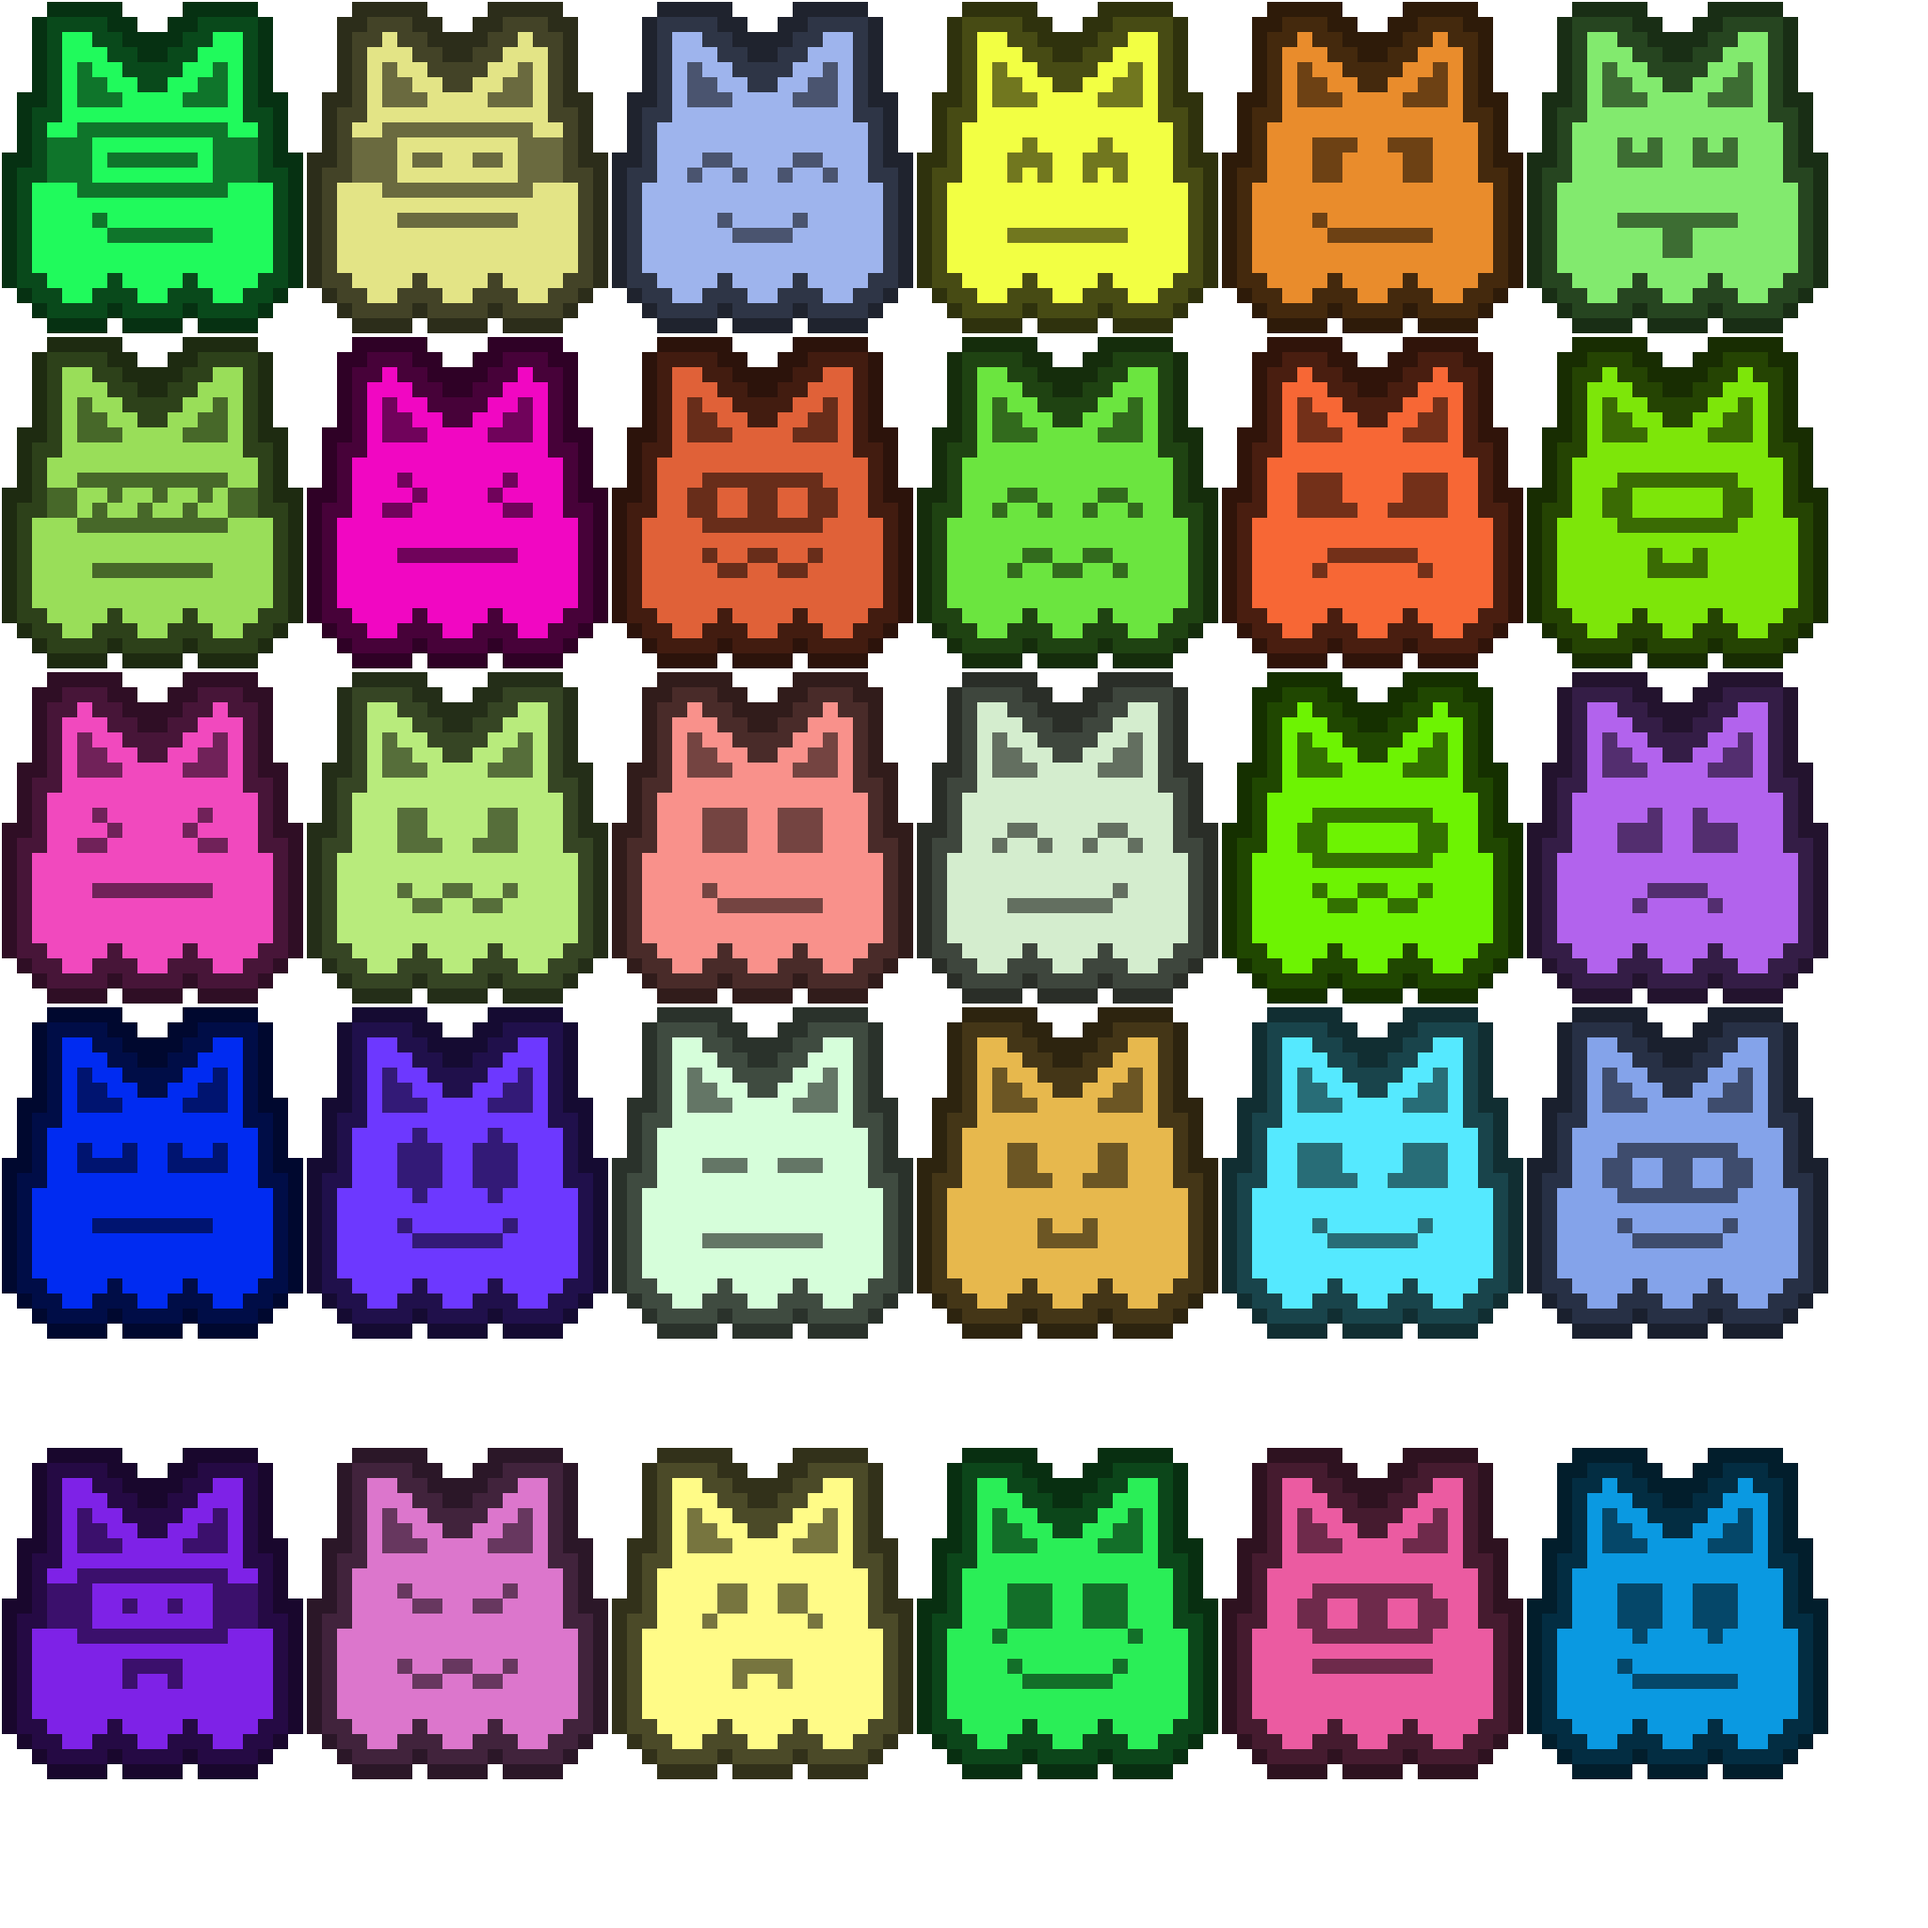
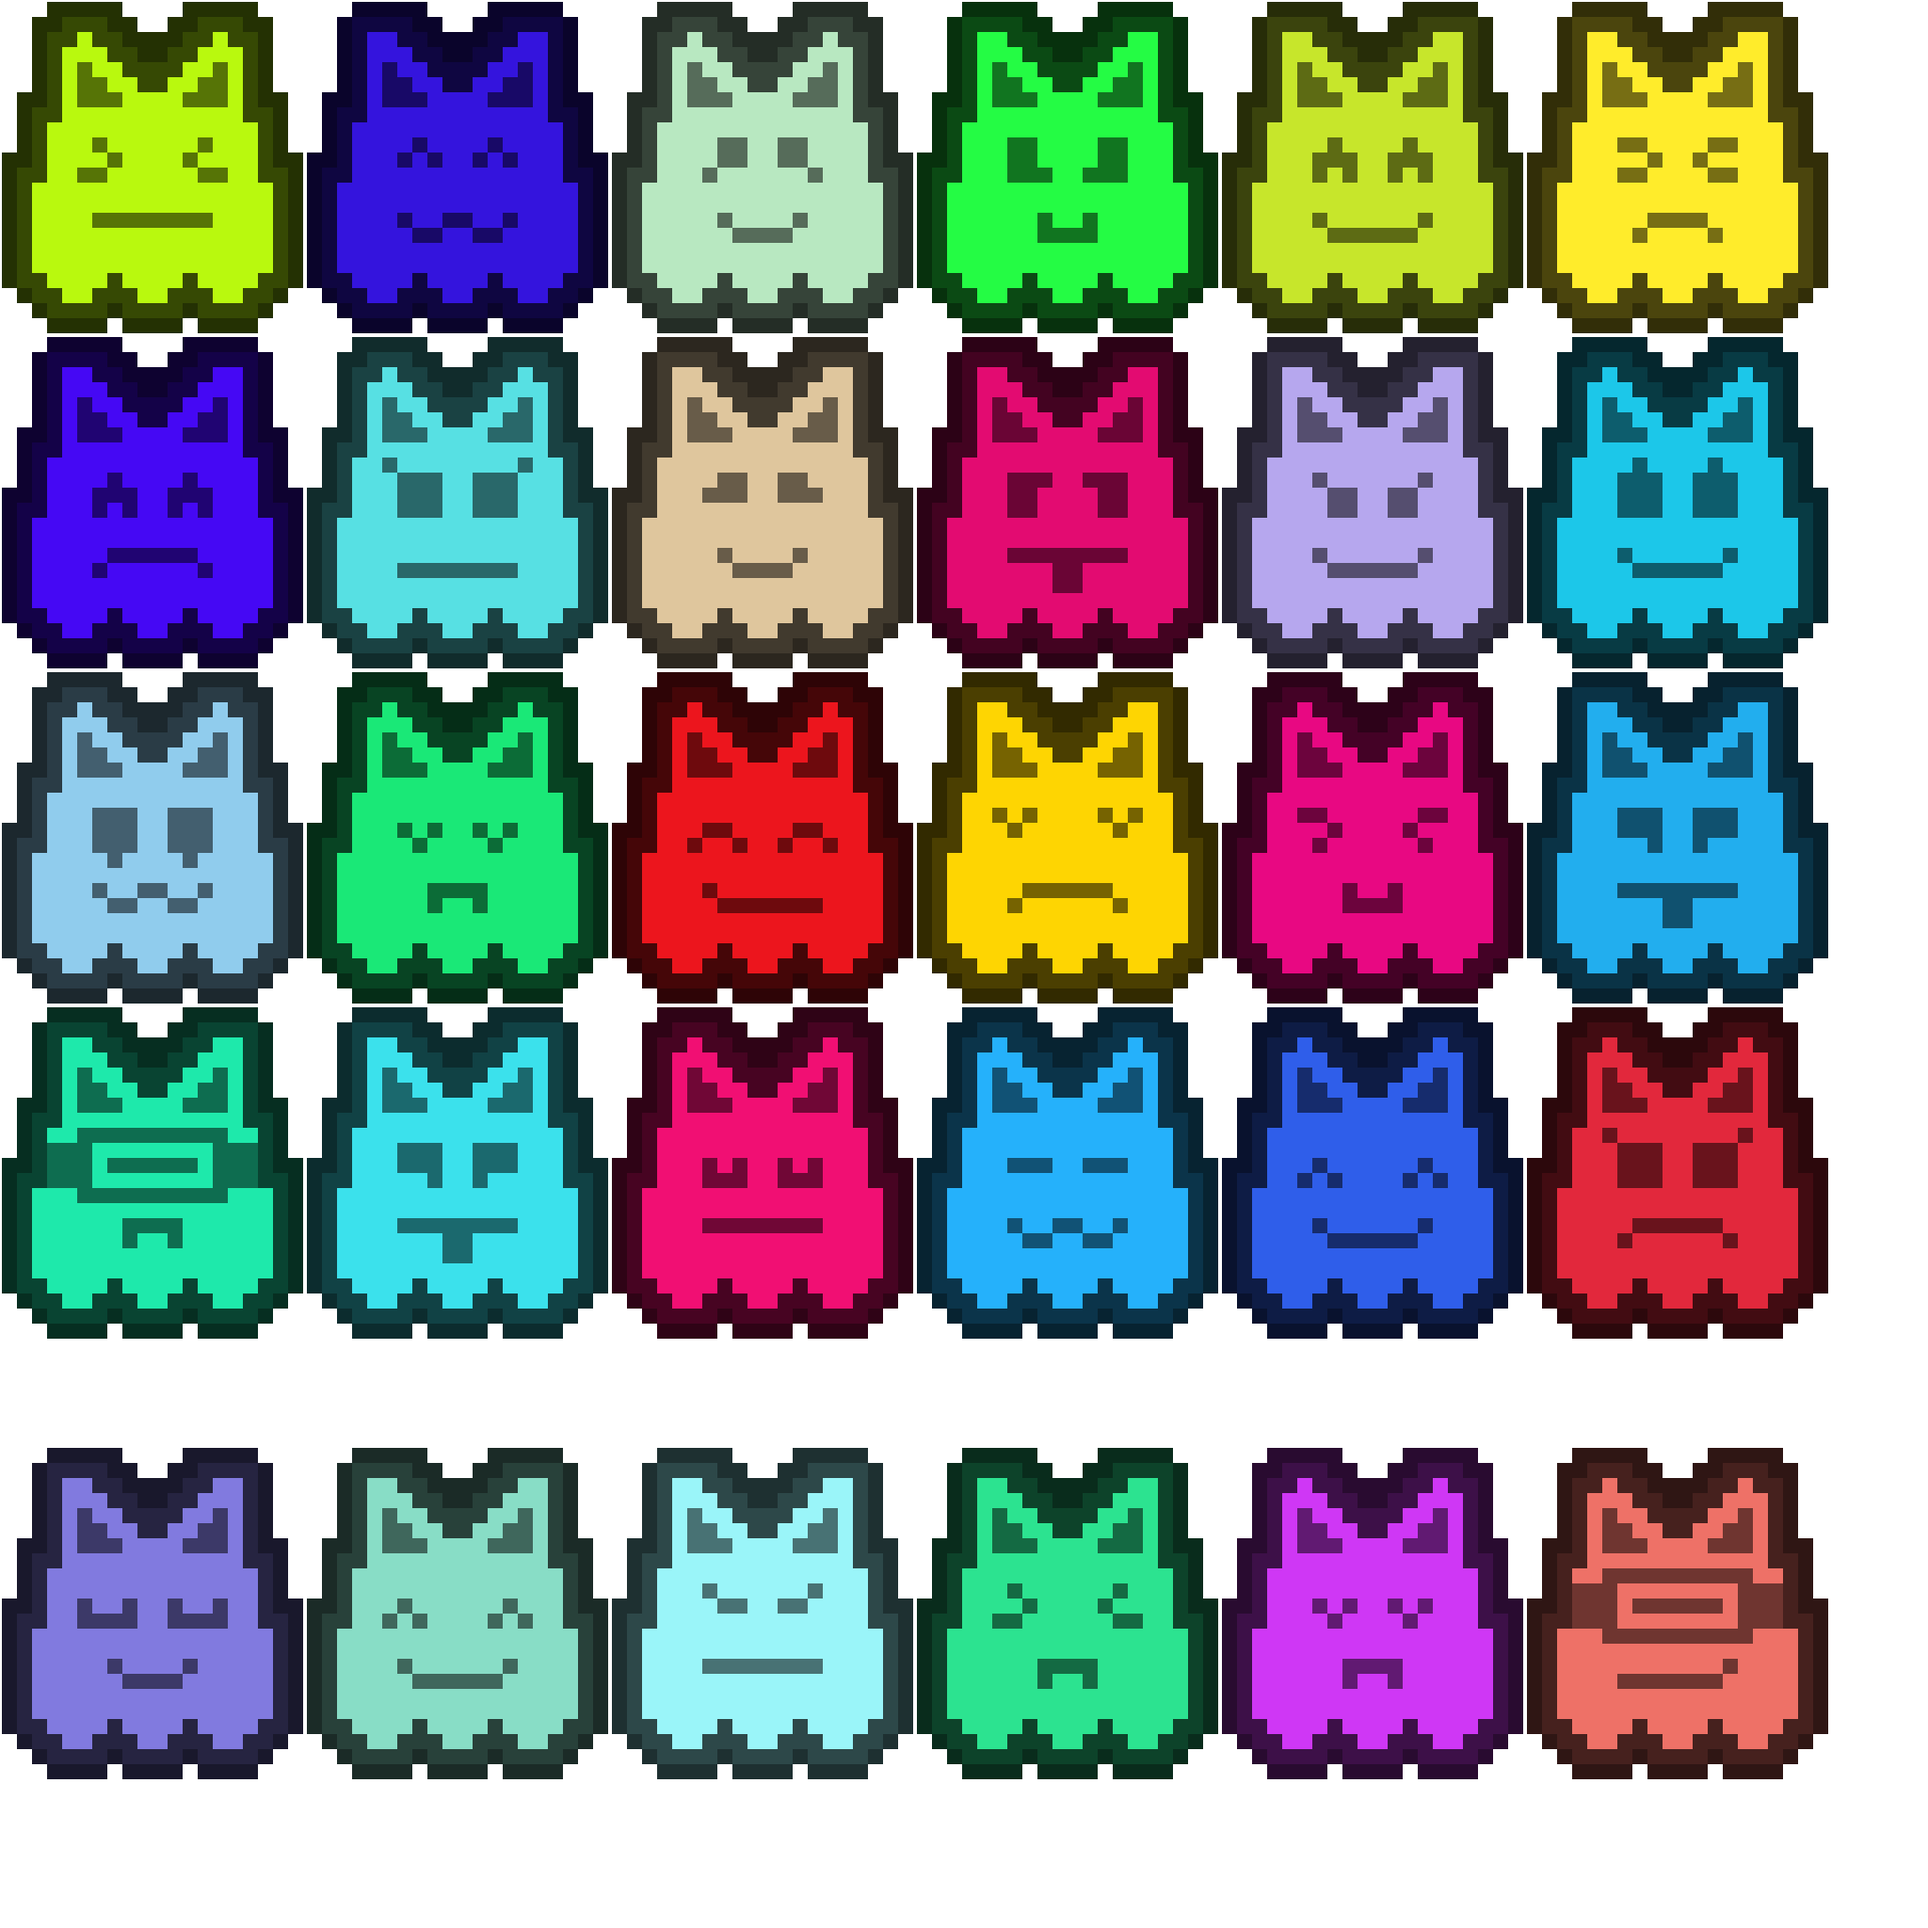
add all kittens to minigames environment

diff --git a/public/minigame/scripts/c3runtime.js b/public/minigame/scripts/c3runtime.js
@@ -3934,10 +3934,8 @@ self.C3_GetObjectRefTable = function () {
 		C3.Plugins.Sprite.Exps.Y,
 		C3.Plugins.Touch.Cnds.OnTouchStart,
 		C3.Plugins.System.Cnds.CompareBoolVar,
-		C3.Plugins.Touch.Cnds.IsTouchingObject,
 		C3.Plugins.Text.Acts.SetText,
 		C3.Plugins.Text.Acts.SetVisible,
-		C3.Plugins.Button.Acts.SetVisible,
 		C3.Plugins.System.Acts.SetBoolVar,
 		C3.Behaviors.Timer.Acts.StartTimer,
 		C3.Plugins.Particles.Acts.SetSpraying,
@@ -3980,6 +3978,7 @@ self.C3_JsPropNameTable = [
 	{bad: 0},
 	{Bullet: 0},
 	{Sine: 0},
+	{Sine2: 0},
 	{candleFat: 0},
 	{parent: 0},
 	{Pin: 0},
@@ -3996,7 +3995,6 @@ self.C3_JsPropNameTable = [
 	{LocalStorage: 0},
 	{TiledBackground: 0},
 	{Particles: 0},
-	{ButtonMenu: 0},
 	{kittenFrame: 0},
 	{playing: 0},
 	{color: 0}
@@ -4128,17 +4126,17 @@ self.C3_ExpressionFuncs = [
 			const v0 = p._GetNode(0).GetVar();
 			return () => and("Score: ", v0.GetValue());
 		},
-		() => 1,
+		() => 0.1,
 		() => "enemy",
 		p => {
 			const n0 = p._GetNode(0);
 			const v1 = p._GetNode(1).GetVar();
 			const f2 = p._GetNode(2).GetBoundMethod();
-			return () => (n0.ExpObject() - ((400 * (1 + (v1.GetValue() / 20))) * f2()));
+			return () => (n0.ExpObject() - ((800 * (1 + (v1.GetValue() / 200))) * f2()));
 		},
 		p => {
 			const v0 = p._GetNode(0).GetVar();
-			return () => (400 * (1 + (v0.GetValue() / 20)));
+			return () => (800 * (1 + (v0.GetValue() / 200)));
 		},
 		p => {
 			const n0 = p._GetNode(0);
@@ -4150,13 +4148,7 @@ self.C3_ExpressionFuncs = [
 			const f0 = p._GetNode(0).GetBoundMethod();
 			const f1 = p._GetNode(1).GetBoundMethod();
 			const v2 = p._GetNode(2).GetVar();
-			return () => (40 + Math.floor(f0((300 + f1(v2.GetValue(), 150)))));
-		},
-		p => {
-			const f0 = p._GetNode(0).GetBoundMethod();
-			const f1 = p._GetNode(1).GetBoundMethod();
-			const v2 = p._GetNode(2).GetVar();
-			return () => (40 + Math.floor(f0((500 + f1(v2.GetValue(), 150)))));
+			return () => (40 + Math.floor(f0((100 + f1((v2.GetValue() * 5), 150)))));
 		},
 		p => {
 			const f0 = p._GetNode(0).GetBoundMethod();
@@ -4170,7 +4162,7 @@ self.C3_ExpressionFuncs = [
 		p => {
 			const f0 = p._GetNode(0).GetBoundMethod();
 			const v1 = p._GetNode(1).GetVar();
-			return () => f0((1 - (v1.GetValue() / 70)), 0.2);
+			return () => f0((0.9 - (v1.GetValue() / 250)), 0.2);
 		},
 		p => {
 			const f0 = p._GetNode(0).GetBoundMethod();
@@ -4180,6 +4172,7 @@ self.C3_ExpressionFuncs = [
 		() => 6113014,
 		() => "green",
 		() => 8506126,
+		() => 1,
 		p => {
 			const n0 = p._GetNode(0);
 			return () => n0.ExpInstVar();
